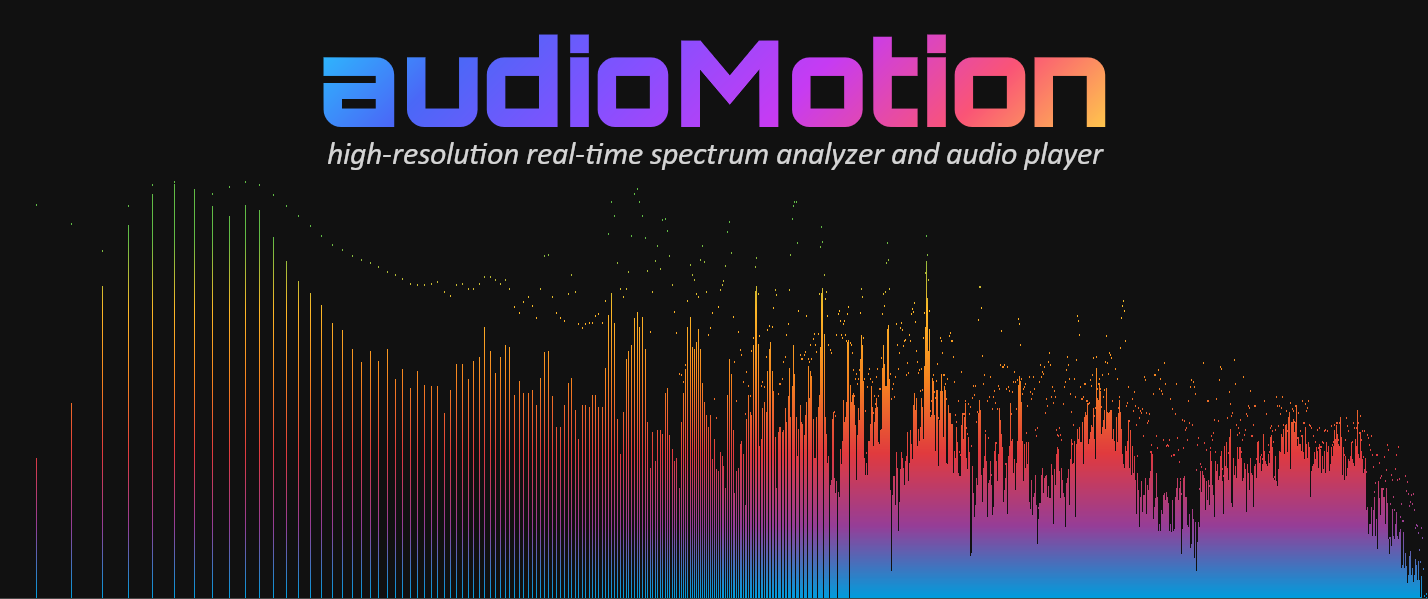
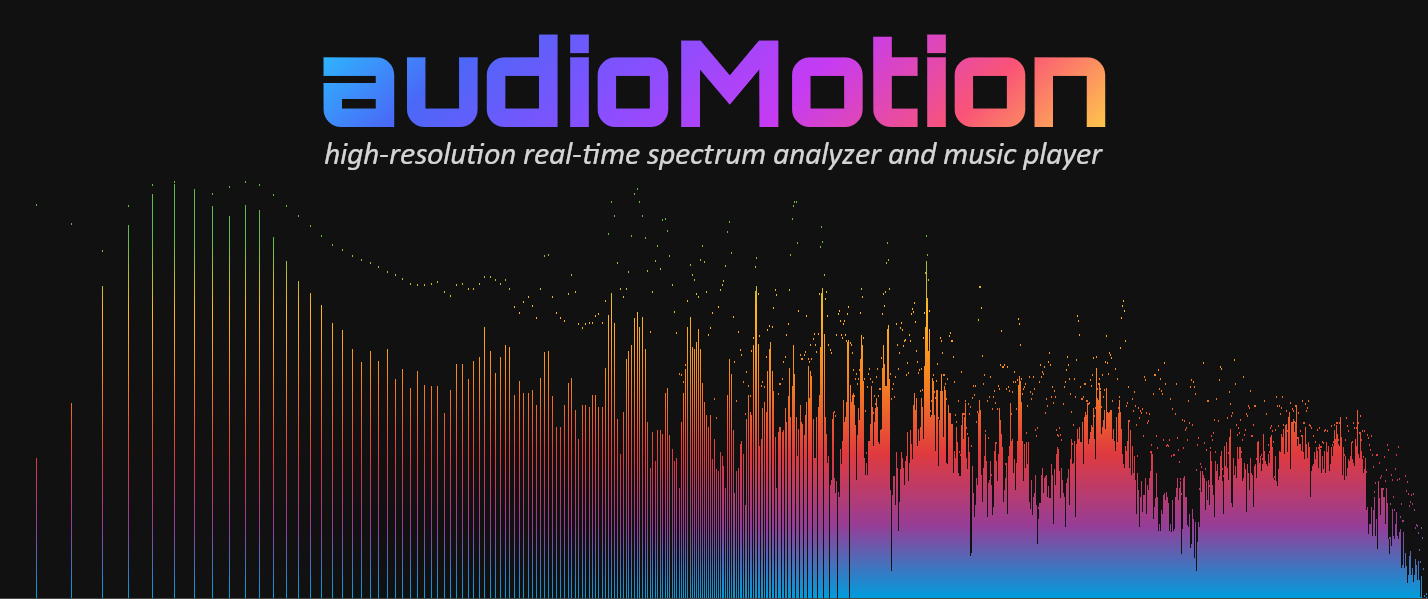
Updated documentation.

Changed region(s): [[0.2157, 0.2404, 0.7703, 0.3005]]

diff --git a/docs/user-interface.md b/docs/user-interface.md
@@ -11,9 +11,12 @@ audioMotion.js User Interface
 
 Select *Microphone* to visualize audio from your microphone instead of the music player.
 
+Microphone input is only accessible to the browser in a secure context, i.e., if you're accessing audioMotion via localhost, local file (open index.html directly) or HTTPS protocol.
+
 If your sound card supports *Stereo mix* mode, this should be listed as an input device when access to your microphone is requested.
 The *Stereo mix* input allows audioMotion to read audio generated by any program running in your PC.
-Please note that the graphic visualization from this source might suffer a slight delay.
+
+Please note that the visualization from microphone or stereo mix audio might suffer from a slight delay.
 
 ### Player controls
 
@@ -23,7 +26,7 @@ You can use the player controls to play, pause and skip through songs in the pla
 
 The **Shuffle** button will shuffle the songs in the play queue and start playback.
 
-If the **Repeat** option is active, the player will loop back to the first song after playing the entire queue.
+When the **Repeat** option is active, the player will loop back to the first song after playing the entire queue.
 
 ### Fullscreen mode and keyboard shortcuts
 
@@ -31,7 +34,7 @@ If the **Repeat** option is active, the player will loop back to the first song 
 
 Click the **Fullscreen Analyzer** button, or press the **F** key, to display the spectrum analyzer in fullscreen.
 
-You can use the keyboard shortcuts below to control the player and change some settings without leaving fullscreen mode:
+You can use the keyboard shortcuts below to control the player and change some settings without leaving fullscreen:
 
 | keys | alternate | action |
 |------|-----------|--------|
@@ -84,19 +87,18 @@ Several options of color gradients for the analyzer bars. You can change gradien
 
 Switches:
 
-+ **AUTO** when active, every track change will select the next gradient, cycling through the available options
-+ **NO BG** when active, sets a black background for the analyzer, instead of the color defined by each gradient (may improve contrast)
++ **AUTO** makes every track change select the next gradient, cycling through the available options
++ **NO BG** ignores the background color defined by each gradient, using a black background instead (may improve contrast)
 
 #### Analyzer switches
 
 ![ui-switches](img/UI_switches.png)
 
 + **INFO** toggles the on-screen display of song information on every track change
-+ **SCALE** toggles the display of the frequency scale on the X-axis; clicking the visualization area also toggles this option
-+ **SENS** increases analyzer sensitivity to improve the visualization of songs too quiet
-+ **PEAKS** shows volume peaks for each frequency
++ **SCALE** toggles the display of the frequency scale on the X-axis
++ **PEAKS** shows amplitude peaks for each frequency
 
-**Performance-related options:**
+Performance-related options:
 
 + **FLAT** applies an outline instead of shadow on text displayed on canvas - may improve performance, depending on your graphic card and browser
 + **LO-RES** reduces canvas resolution to improve rendering speed (especially useful for 4K+ displays)

diff --git a/README.md b/README.md
@@ -1,4 +1,4 @@
-![header](docs/img/audioMotion-header.png "audioMotion - high-resolution real-time spectrum analyzer and audio player")
+![header](docs/img/audioMotion-header.png "audioMotion - high-resolution real-time spectrum analyzer and music player")
 
 [![GitHub release](https://img.shields.io/github/release/hvianna/audioMotion.js.svg) ![GitHub Release Date](https://img.shields.io/github/release-date/hvianna/audioMotion.js.svg)](https://github.com/hvianna/audioMotion.js/releases/latest)
 
@@ -14,12 +14,12 @@
 * Visualize discrete frequencies, or octave bands based on the equal tempered scale
 * Several color gradients with optional vintage LED effect
 * Customizable Web Audio API parameters (FFT size, sensitivity and time-smoothing)
-* HTML5 audio player supporting most popular audio formats, like MP3, AAC (M4A), OGG and FLAC (support may vary depending on browser and operating system)
-* Visual file explorer and play queue with drag-and-drop support
-* Supports M3U playlists (`m3u` and `m3u8` file extensions)
+* HTML5 audio player for MP3, AAC (M4A), OGG and FLAC files (codec support may vary depending on browser and operating system)
+* Visual file explorer and play queue with drag-and-drop functionality
+* Support for M3U playlists (`m3u` and `m3u8` file extensions)
 * Visualize audio from your microphone (or "stereo mix", if your soundcard supports it)
-* Lightweight custom file server written in node.js — also works on standard web servers with minimal additional configuration
-* Client runs in any modern browser
+* Lightweight custom file server — also works on standard web servers with minimal configuration
+* Client runs on any modern browser (tested with Firefox, Chrome and Safari)
 
 ## Online demo
 

diff --git a/Changelog.md b/Changelog.md
@@ -6,12 +6,12 @@ Changelog
 ### Added:
 
 + :fire: File explorer for easy navigation through your music files and folders;
++ Custom file server written in node.js with portable binaries available for Windows, Linux and macOS - no setup required; :tada:
 + Add, reorder and remove songs from the play queue, with drag-and-drop support;
 + Song info now shows actual metadata read from music files;
 + Save custom playlists to your browser's local storage;
 + Option to show the current frame rate;
 + New gradient: **Cool**;
-+ Custom file server with portable binaries available for Windows, Linux and macOS - no setup required; :tada:
 
 ### Changed:
 
